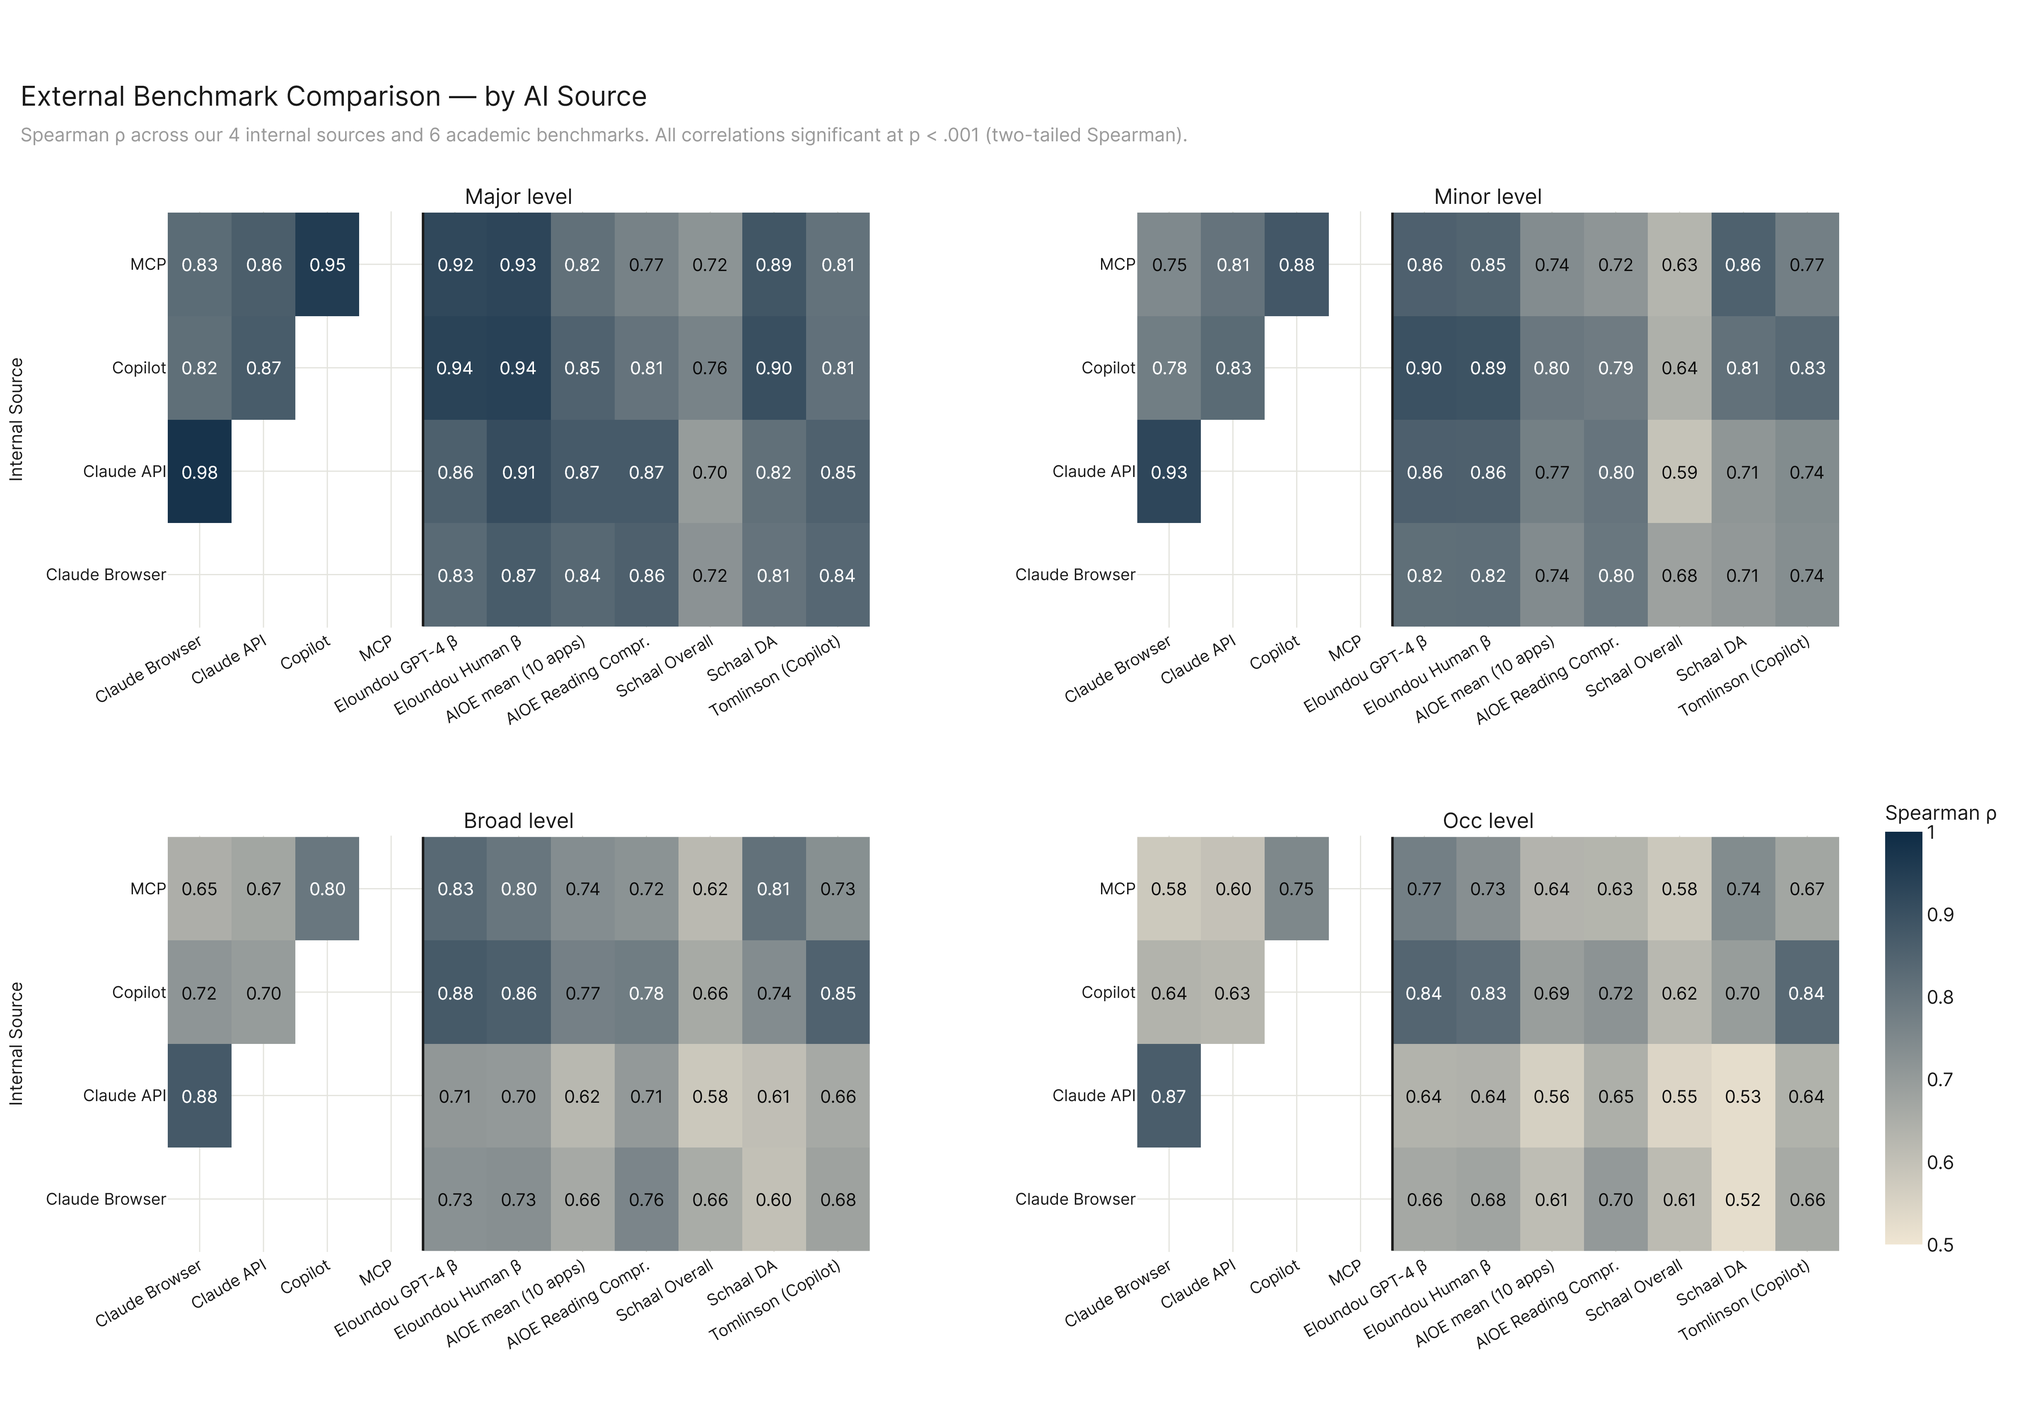
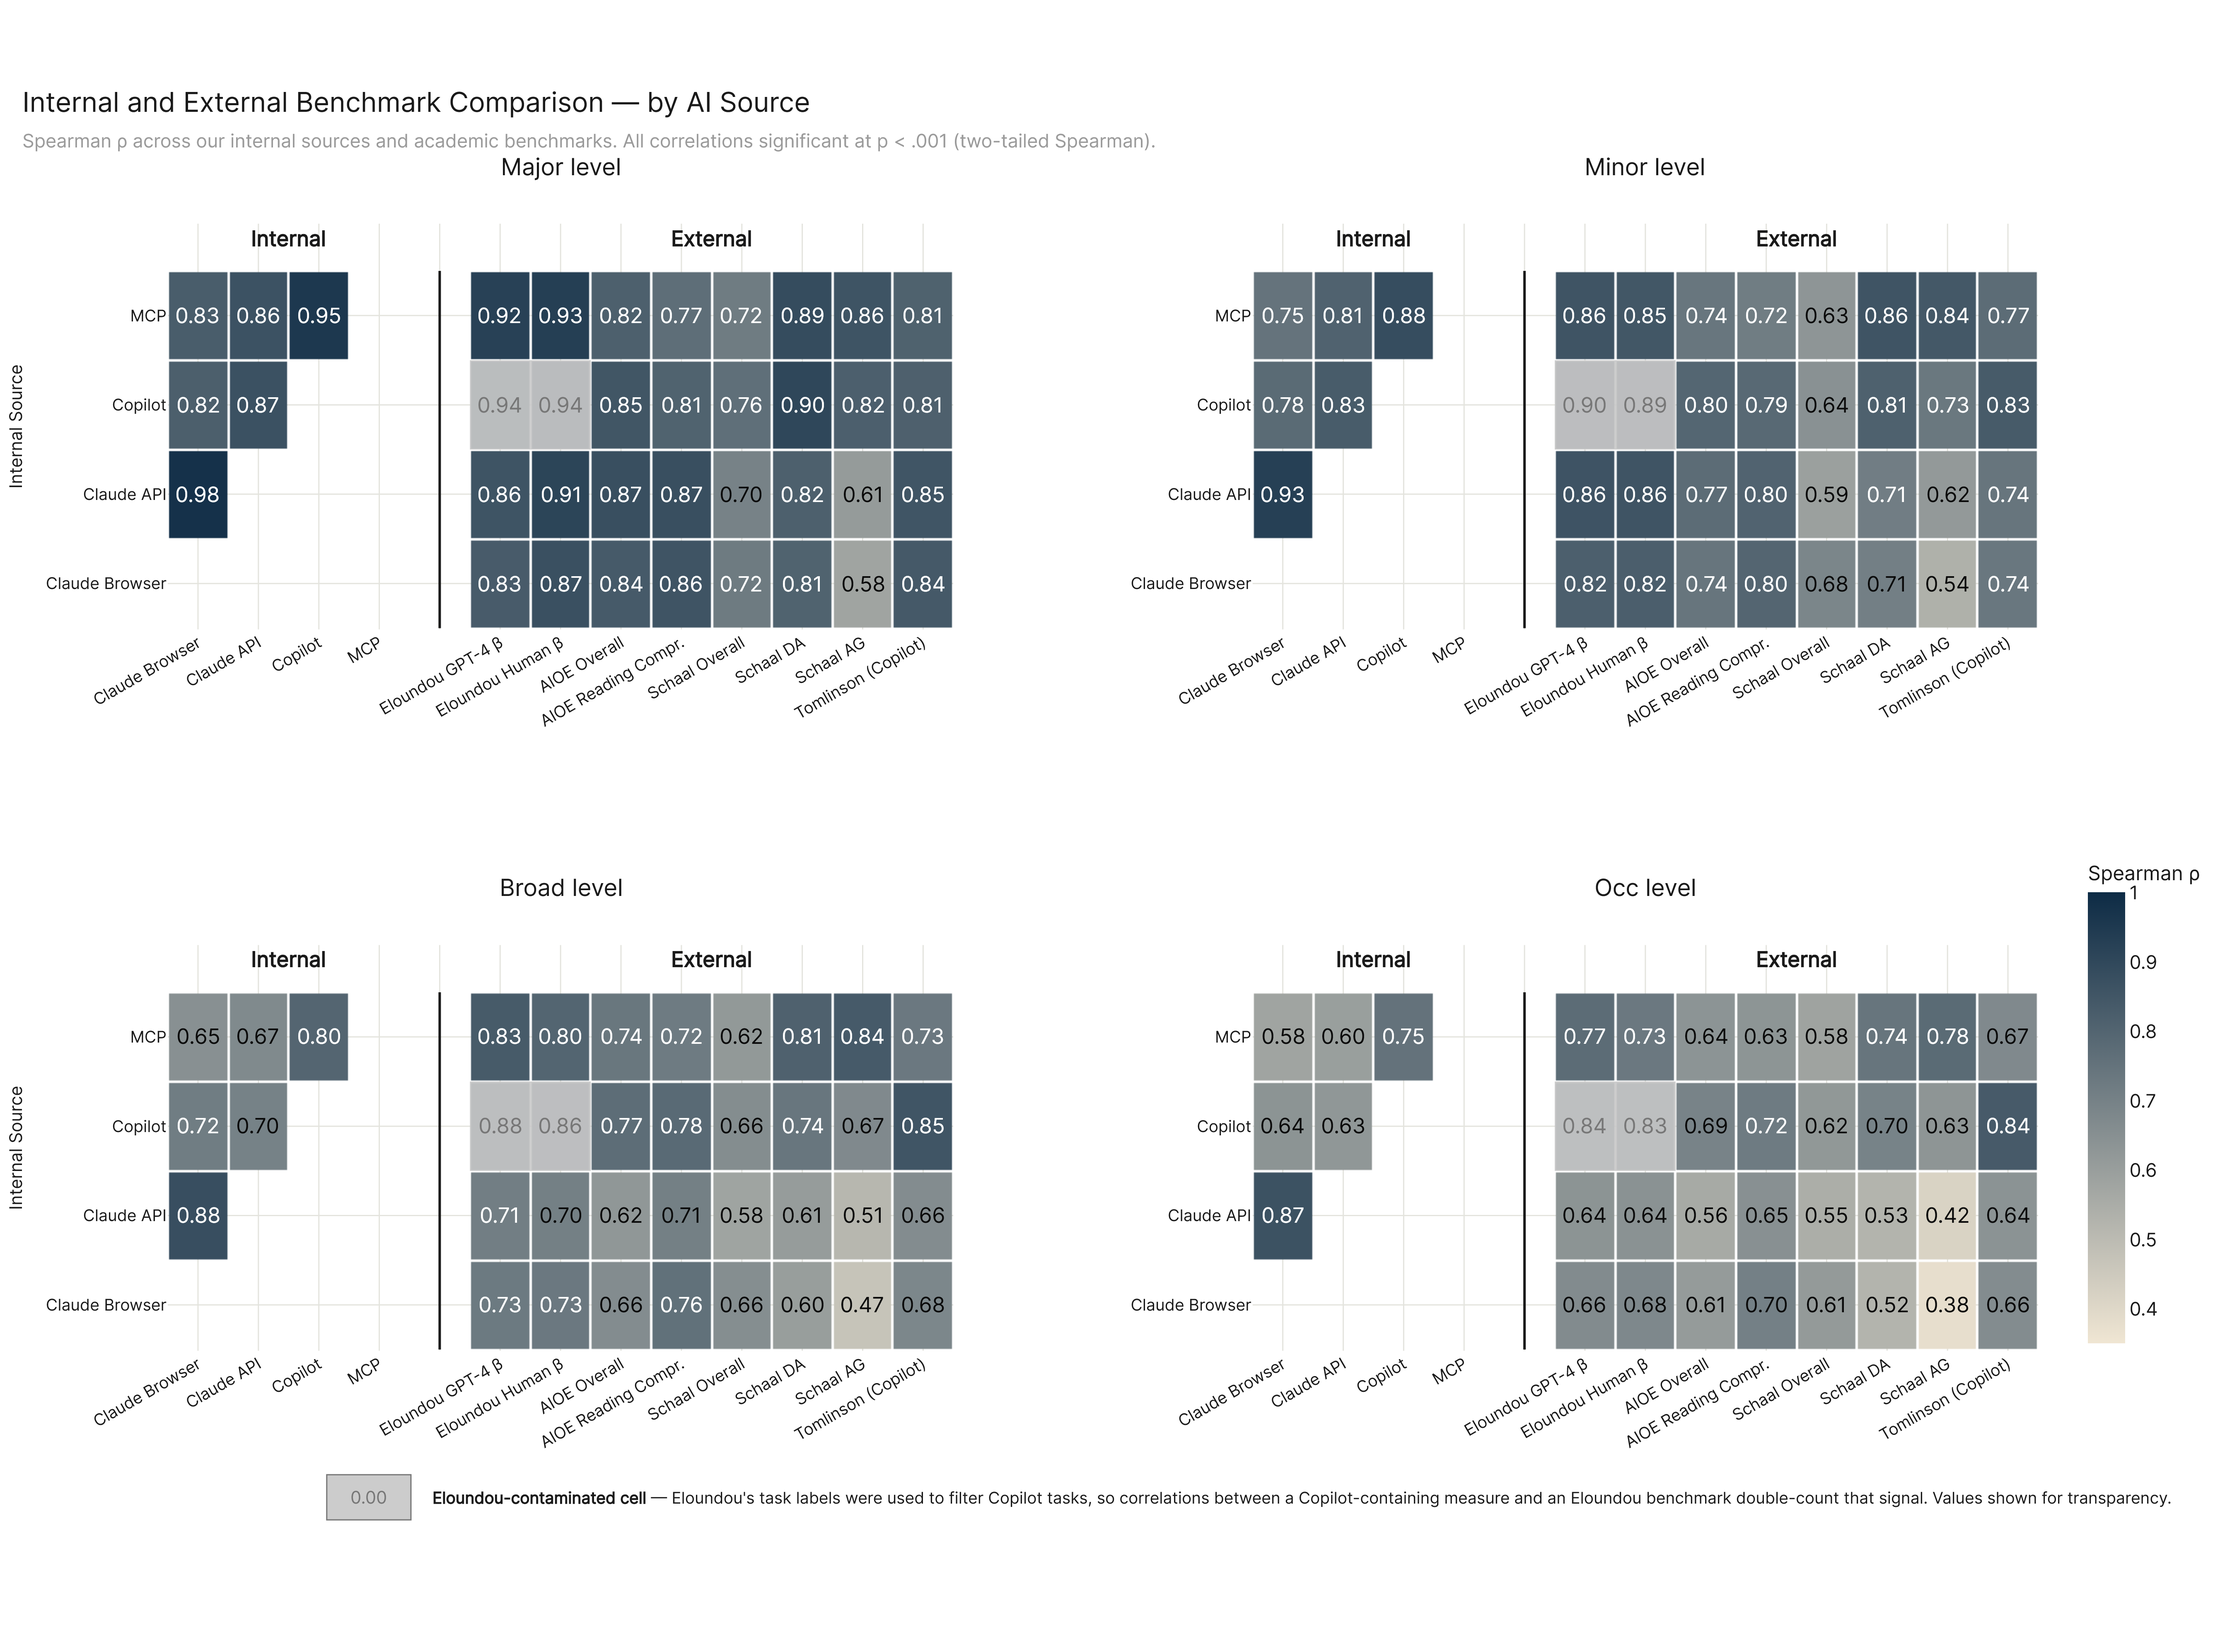
paper(part_1): refactor convergence charts — Internal/External grouping, Eloundou contamination flag
- Retitle to "Internal and External Benchmark Comparison" + drop benchmark counts from subtitle
- Insert visual gap column + add per-panel "Internal" / "External" group headers
- Rename AIOE mean (10 apps) -> AIOE Overall; add Schaal AG as 8th external benchmark
- Gray out Copilot-containing rows x Eloundou columns (Eloundou labels were used to filter Copilot tasks, so those correlations double-count signal); add legend swatch
- Bump cell font to 17pt and add subplot-title yshift for breathing room

diff --git a/analysis/paper/results/part_1/run.py b/analysis/paper/results/part_1/run.py
@@ -77,12 +77,24 @@ TREND_CONFIGS: list[str] = ["all_confirmed", "all_ceiling"]
 EXT_SOURCES: list[tuple[str, str]] = [
     ("gpt_beta",      "Eloundou GPT-4 β"),
     ("human_beta",    "Eloundou Human β"),
-    ("aioe_mean",     "AIOE mean (10 apps)"),
+    ("aioe_mean",     "AIOE Overall"),
     ("aioe_rc",       "AIOE Reading Compr."),
     ("schaal_overall", "Schaal Overall"),
     ("schaal_da",     "Schaal DA"),
+    ("schaal_ag",     "Schaal AG"),
     ("tomlinson_copilot", "Tomlinson (Copilot)"),
 ]
+
+# Cells to gray out as contaminated by the Copilot task-filter pipeline
+# (Eloundou labels were used to filter which Copilot tasks were included,
+# so any correlation between a Copilot-containing measure and an Eloundou
+# benchmark double-counts that signal). Keys are (row_label, col_label)
+# pairs matching the labels rendered on each chart.
+ELOUNDOU_LABELS: set[str] = {"Eloundou GPT-4 β", "Eloundou Human β"}
+CONTAMINATED_SOURCE_ROWS: set[str] = {"Copilot"}
+CONTAMINATED_CONFIG_ROWS: set[str] = {
+    "All Confirmed", "All Sources (Ceiling)", "Conversational Confirmed",
+}
 
 GPTS_CSV = ANALYSIS_DIR / "data" / "gpts_are_gpts_occ_data.csv"
 AIOE_MATRIX_PATH = ANALYSIS_DIR / "data" / "aioe_ability_matrix.csv"
@@ -300,18 +312,20 @@ def _load_eloundou_occ() -> pd.DataFrame:
 def _load_schaal_occ() -> pd.DataFrame:
     """Schaal 2025 occupation-level scores from `Comparison of Indices.csv`.
     Title joins exactly to title_current. Returns title_current,
-    schaal_overall (auto_w), schaal_da (da_w)."""
+    schaal_overall (auto_w), schaal_da (da_w), schaal_ag (ag_w)."""
     df = pd.read_csv(SCHAAL_INDICES_CSV)
     assert "title" in df.columns, f"title column missing in {SCHAAL_INDICES_CSV}"
-    for c in ("auto_w", "da_w"):
+    for c in ("auto_w", "da_w", "ag_w"):
         assert c in df.columns, f"{c} column missing in {SCHAAL_INDICES_CSV}"
     out = pd.DataFrame({
         "title_current":   df["title"].astype(str),
         "schaal_overall":  pd.to_numeric(df["auto_w"], errors="coerce"),
         "schaal_da":       pd.to_numeric(df["da_w"],   errors="coerce"),
+        "schaal_ag":       pd.to_numeric(df["ag_w"],   errors="coerce"),
     })
     assert out["schaal_overall"].notna().any(), "Schaal auto_w is all NaN after load"
     assert out["schaal_da"].notna().any(),      "Schaal da_w is all NaN after load"
+    assert out["schaal_ag"].notna().any(),      "Schaal ag_w is all NaN after load"
     return out
 
 
@@ -430,13 +444,18 @@ def _build_convergence_chart(
     results: Path,
     figures: Path,
     y_axis_title: str,
+    contaminated_rows: set[str] | None = None,
 ) -> None:
     """Build one combined heatmap (lower-tri internal + external block).
 
     `rows_keys` and `rows_labels` define the y-axis. `rows_data` is a
     nested dict {key → {level → pd.Series}} of pct_tasks_affected at
-    each SOC level.
+    each SOC level. `contaminated_rows` is the set of row labels whose
+    correlations against ELOUNDOU_LABELS columns should be visually
+    grayed out (the Eloundou-filter contamination on Copilot-containing
+    measures).
     """
+    contaminated_rows = contaminated_rows or set()
     eloundou = _load_eloundou_occ()
     aioe = _compute_aioe_occ()
     schaal = _load_schaal_occ()
@@ -452,8 +471,13 @@ def _build_convergence_chart(
     n = len(rows_keys)
     n_ext = len(EXT_SOURCES)
 
-    x_labels = list(rows_labels) + list(ext_labels)
+    # Insert one blank column between the internal block and the external
+    # block to visually separate the two groups. The gap column sits at
+    # position `n` (index n in the matrix, label "" so no x-tick renders).
+    GAP_LABEL = " "
+    x_labels = list(rows_labels) + [GAP_LABEL] + list(ext_labels)
     n_cols = len(x_labels)
+    EXT_OFFSET = n + 1   # column index where external block starts
 
     corr_records: list[dict] = []
     matrices: dict[str, np.ndarray] = {}
@@ -482,7 +506,7 @@ def _build_convergence_chart(
                     "n": len(merged), "stars": _stars(pval),
                 })
 
-        # External block
+        # External block (offset by 1 to skip the gap column)
         for i, skey in enumerate(rows_keys):
             ours = rows_data[skey][level]
             for k, ext_key in enumerate(ext_keys):
@@ -494,8 +518,8 @@ def _build_convergence_chart(
                 if len(merged) < 3:
                     continue
                 rho, pval = stats.spearmanr(merged["x"], merged["y"])
-                mat[i, n + k] = rho
-                pmat[i, n + k] = pval
+                mat[i, EXT_OFFSET + k] = rho
+                pmat[i, EXT_OFFSET + k] = pval
                 corr_records.append({
                     "level": level, "kind": "external",
                     "source_a": rows_labels[i], "source_b": ext_labels[k],
@@ -513,13 +537,21 @@ def _build_convergence_chart(
     z_min = float(np.floor(all_vals.min() * 20) / 20)
     z_max = 1.0
 
-    # Generously spaced 2x2 grid for readability
+    # Generously spaced 2x2 grid for readability. Extra vertical spacing
+    # gives the "Internal" / "External" group headers room to sit above
+    # each panel without colliding with the subplot title.
     fig = make_subplots(
         rows=2, cols=2,
         subplot_titles=[AGG_TITLES[l] for l in AGG_LEVELS],
         horizontal_spacing=0.16,
-        vertical_spacing=0.20,
+        vertical_spacing=0.28,
     )
+
+    # Cell number font — bigger for readability per paper feedback
+    cell_fs = HEATMAP_TEXT_FS - 1     # 17pt regardless of column count
+
+    contam_color = "rgba(200, 200, 200, 0.92)"
+    contam_text  = "#777777"
 
     for idx, level in enumerate(AGG_LEVELS):
         row_pos = idx // 2 + 1
@@ -536,6 +568,7 @@ def _build_convergence_chart(
                 zmin=z_min, zmax=z_max,
                 showscale=(idx == 3),
                 hoverinfo="z",
+                xgap=2, ygap=2,
                 colorbar=dict(
                     title=dict(text="Spearman ρ",
                                font=dict(size=LABEL_FS, family=FONT_FAMILY)),
@@ -546,28 +579,70 @@ def _build_convergence_chart(
             row=row_pos, col=col_pos,
         )
 
+        x_axis = f"x{idx + 1}" if idx > 0 else "x"
+        y_axis = f"y{idx + 1}" if idx > 0 else "y"
+
         for i in range(n):
             for j in range(n_cols):
                 val = mat[i, j]
                 if np.isnan(val):
                     continue
-                norm = (val - z_min) / max(z_max - z_min, 1e-9)
-                txt_color = "white" if norm >= 0.55 else PAPER_PALETTE["text_dark"]
-                cell_fs = HEATMAP_TEXT_FS - 4 if n_cols >= 9 else HEATMAP_TEXT_FS - 2
+
+                # Contamination check: row label is in contaminated set AND
+                # this column is one of the Eloundou columns. Apply gray
+                # overlay first (so annotation sits on top), then render
+                # the value in muted text.
+                row_label = rows_labels[i]
+                col_label = x_labels[j]
+                is_contam = (row_label in contaminated_rows
+                             and col_label in ELOUNDOU_LABELS)
+
+                if is_contam:
+                    fig.add_shape(
+                        type="rect",
+                        x0=j - 0.5, x1=j + 0.5,
+                        y0=i - 0.5, y1=i + 0.5,
+                        xref=x_axis, yref=y_axis,
+                        fillcolor=contam_color,
+                        line=dict(width=0),
+                        layer="above",
+                    )
+                    txt_color = contam_text
+                else:
+                    norm = (val - z_min) / max(z_max - z_min, 1e-9)
+                    txt_color = "white" if norm >= 0.55 else PAPER_PALETTE["text_dark"]
+
                 fig.add_annotation(
                     x=x_labels[j], y=rows_labels[i],
                     text=f"{val:.2f}",
                     showarrow=False,
                     font=dict(size=cell_fs, family=FONT_FAMILY, color=txt_color),
-                    xref=f"x{idx + 1}" if idx > 0 else "x",
-                    yref=f"y{idx + 1}" if idx > 0 else "y",
+                    xref=x_axis, yref=y_axis,
                 )
 
-        x_axis = f"x{idx + 1}" if idx > 0 else "x"
-        y_axis = f"y{idx + 1}" if idx > 0 else "y"
+        # Group header annotations centered above each block. Positioned
+        # in axis coordinates (x = block midpoint), with a pixel yshift
+        # so they sit just above the top edge of the heatmap regardless
+        # of zoom level.
+        internal_mid = (n - 1) / 2.0
+        external_mid = EXT_OFFSET + (n_ext - 1) / 2.0
+        for header_text, header_x in [("Internal", internal_mid),
+                                       ("External", external_mid)]:
+            fig.add_annotation(
+                x=header_x, y=n - 0.5,
+                text=f"<b>{header_text}</b>",
+                showarrow=False,
+                xanchor="center", yanchor="bottom",
+                yshift=14,
+                font=dict(size=LABEL_FS + 1, family=FONT_FAMILY,
+                          color=PAPER_PALETTE["text"]),
+                xref=x_axis, yref=y_axis,
+            )
+
+        # Vertical divider between internal and external blocks
         fig.add_shape(
             type="line",
-            x0=n - 0.5, x1=n - 0.5,
+            x0=n - 0.5 + 0.5, x1=n - 0.5 + 0.5,  # midpoint of the gap col
             y0=-0.5, y1=n - 0.5,
             xref=x_axis, yref=y_axis,
             line=dict(color=PAPER_PALETTE["text"], width=2),
@@ -575,7 +650,7 @@ def _build_convergence_chart(
 
     # Scale figure with column count for breathing room
     fig_width = PAPER_W + max(0, (n_cols - 8) * 80)
-    fig_height = PAPER_H + 360
+    fig_height = PAPER_H + 540   # taller for gap + group headers + legend strip
 
     full_subtitle = f"{subtitle}. {SIG_NOTE}"
     style_paper_figure(
@@ -584,16 +659,57 @@ def _build_convergence_chart(
         subtitle=full_subtitle,
         width=fig_width,
         height=fig_height,
-        margin=dict(l=40, r=160, t=170, b=140),
+        margin=dict(l=40, r=160, t=180, b=240),
     )
 
+    # Bump subplot titles higher and embiggen so they don't visually collide
+    # with the new "Internal" / "External" group headers placed below them.
     agg_title_set = set(AGG_TITLES.values())
     for ann in fig.layout.annotations:
         if hasattr(ann, "text") and ann.text in agg_title_set:
             ann.font = dict(
-                size=LABEL_FS + 1, family=FONT_FAMILY,
+                size=LABEL_FS + 3, family=FONT_FAMILY,
                 color=PAPER_PALETTE["text"],
             )
+            ann.yshift = 32
+
+    # Contamination legend — shown only when something is grayed out.
+    # Placed in the bottom margin, below the angled x-tick labels. The
+    # swatch is rendered as a real paper-coordinate rectangle because
+    # Plotly's PNG export ignores HTML background-color in spans.
+    if contaminated_rows:
+        # Swatch position (paper coords). Pushed well below the heatmap
+        # so it sits clear of the angled tick labels.
+        sx0, sx1 = 0.085, 0.130
+        sy0, sy1 = -0.150, -0.110
+        fig.add_shape(
+            type="rect",
+            xref="paper", yref="paper",
+            x0=sx0, x1=sx1, y0=sy0, y1=sy1,
+            fillcolor=contam_color,
+            line=dict(color=contam_text, width=1),
+            layer="above",
+        )
+        fig.add_annotation(
+            xref="paper", yref="paper",
+            x=(sx0 + sx1) / 2, y=(sy0 + sy1) / 2,
+            text="0.00",
+            showarrow=False,
+            xanchor="center", yanchor="middle",
+            font=dict(size=ANNOT_FS + 2, family=FONT_FAMILY, color=contam_text),
+        )
+        fig.add_annotation(
+            xref="paper", yref="paper",
+            x=sx1 + 0.010, y=(sy0 + sy1) / 2,
+            xanchor="left", yanchor="middle",
+            text=("<b>Eloundou-contaminated cell</b> — Eloundou's task labels "
+                  "were used to filter Copilot tasks, so correlations between "
+                  "a Copilot-containing measure and an Eloundou benchmark "
+                  "double-count that signal. Values shown for transparency."),
+            showarrow=False,
+            font=dict(size=ANNOT_FS + 1, family=FONT_FAMILY,
+                      color=PAPER_PALETTE["text"]),
+        )
 
     # y-axis title only on the left column (panels 1 and 3) so it doesn't
     # collide with the colorbar on the right-column panels.
@@ -631,12 +747,13 @@ def build_convergence(results: Path, figures: Path) -> None:
         rows_keys=CORR_ORDER,
         rows_labels=CORR_LABELS,
         rows_data=source_data,
-        title="External Benchmark Comparison — by AI Source",
-        subtitle="Spearman ρ across our 4 internal sources and 6 academic benchmarks",
+        title="Internal and External Benchmark Comparison — by AI Source",
+        subtitle="Spearman ρ across our internal sources and academic benchmarks",
         out_name="convergence.png",
         csv_name="spearman_combined.csv",
         results=results, figures=figures,
         y_axis_title="Internal Source",
+        contaminated_rows=CONTAMINATED_SOURCE_ROWS,
     )
 
 
@@ -656,12 +773,13 @@ def build_convergence_configs(results: Path, figures: Path) -> None:
         rows_keys=CONFIG_ORDER,
         rows_labels=[ANALYSIS_CONFIG_LABELS[k] for k in CONFIG_ORDER],
         rows_data=config_data,
-        title="External Benchmark Comparison — by Data Configuration",
-        subtitle="Spearman ρ across our 6 data configurations and 6 academic benchmarks",
+        title="Internal and External Benchmark Comparison — by Data Configuration",
+        subtitle="Spearman ρ across our data configurations and academic benchmarks",
         out_name="convergence_configs.png",
         csv_name="spearman_combined_configs.csv",
         results=results, figures=figures,
         y_axis_title="Data Configuration",
+        contaminated_rows=CONTAMINATED_CONFIG_ROWS,
     )
 
 
